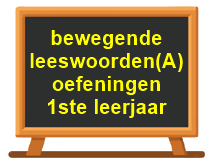
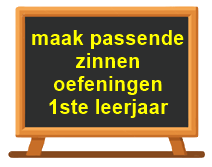
Add files via upload

diff --git a/data.js b/data.js
@@ -1,1 +1,1 @@
-{"project": [null,"Layout 1",[[0,true,false,false,false,false,false,false,false,false],[1,false,true,true,true,true,true,true,true,false],[2,false,true,true,true,true,true,true,true,true],[3,true,false,false,false,false,false,false,false,false]],[["t0",1,false,[],0,0,null,[["Default",5,false,1,0,false,117027091385668,[["images/menu1-sheet0.png",8295,0,0,212,167,1,0.5,0.5029940009117127,[],[],0]]]],[],false,false,579442526640171,[],null],["t1",3,false,[],0,0,null,null,[],false,false,686171647724182,[],null,[1]],["t2",0,false,[],0,0,null,null,[],false,false,949506675121733,[],null,[]],["t3",1,false,[],0,0,null,[["Default",5,false,1,0,false,158681305619359,[["images/menu2-sheet0.png",11591,0,0,212,167,1,0.5,0.5029940009117127,[],[],0]]]],[],false,false,311823332041861,[],null],["t4",1,false,[],0,0,null,[["Default",5,false,1,0,false,326044277892789,[["images/menu3-sheet0.png",10679,0,0,212,167,1,0.5,0.5029940009117127,[],[],0]]]],[],false,false,224473641531038,[],null],["t5",1,false,[],0,0,null,[["Default",5,false,1,0,false,254271839610822,[["images/menu4-sheet0.png",11050,0,0,212,167,1,0.5,0.5029940009117127,[],[],0]]]],[],false,false,529450595996291,[],null],["t6",2,false,[],0,0,["images/tiledbackground.png",2650580,0],null,[],false,false,831352423322622,[],null],["t7",1,false,[],0,0,null,[["Default",5,false,1,0,false,292864059835925,[["images/menu5-sheet0.png",9080,0,0,212,167,1,0.5,0.5029940009117127,[],[],0]]]],[],false,false,494960235019953,[],null],["t8",1,false,[],0,0,null,[["Default",5,false,1,0,false,488824489902244,[["images/menu6-sheet0.png",9359,0,0,212,167,1,0.5,0.5029940009117127,[],[],0]]]],[],false,false,202970627325348,[],null],["t9",1,false,[],0,0,null,[["Default",5,false,1,0,false,996687194782878,[["images/menu7-sheet0.png",8067,0,0,212,167,1,0.5,0.5029940009117127,[],[],0]]]],[],false,false,888605933007837,[],null],["t10",1,false,[],0,0,null,[["Default",5,false,1,0,false,445101901261574,[["images/menu8-sheet0.png",9982,0,0,212,167,1,0.5,0.5029940009117127,[],[],0]]]],[],false,false,578641591164545,[],null],["t11",1,false,[],0,0,null,[["Default",5,false,1,0,false,242457179592126,[["images/menu9-sheet0.png",7203,0,0,212,167,1,0.5,0.5029940009117127,[],[],0]]]],[],false,false,657654593037586,[],null],["t12",1,false,[],0,0,null,[["Default",5,false,1,0,false,486572896505710,[["images/menu10-sheet0.png",7167,0,0,212,167,1,0.5,0.5029940009117127,[],[],0]]]],[],false,false,411815708822918,[],null],["t13",1,false,[],0,0,null,[["Default",5,false,1,0,false,371353466755763,[["images/menu11-sheet0.png",7142,0,0,212,167,1,0.5,0.5029940009117127,[],[],0]]]],[],false,false,947512400676127,[],null],["t14",1,false,[],0,0,null,[["Default",5,false,1,0,false,156637765337536,[["images/menu12-sheet0.png",7083,0,0,212,167,1,0.5,0.5029940009117127,[],[],0]]]],[],false,false,328717317292460,[],null],["t15",1,false,[],0,0,null,[["Default",5,false,1,0,false,227316371230216,[["images/menu13-sheet0.png",7537,0,0,212,167,1,0.5,0.5029940009117127,[],[],0]]]],[],false,false,117685219120617,[],null],["t16",1,false,[],0,0,null,[["Default",5,false,1,0,false,681109082501796,[["images/menu14-sheet0.png",6758,0,0,212,167,1,0.5,0.5029940009117127,[],[],0]]]],[],false,false,919142958206970,[],null],["t17",1,false,[],0,0,null,[["Default",5,false,1,0,false,930098934348924,[["images/menu15-sheet0.png",6922,0,0,212,167,1,0.5,0.5029940009117127,[],[],0]]]],[],false,false,759915044119502,[],null],["t18",1,false,[],0,0,null,[["Default",5,false,1,0,false,473186904432816,[["images/menu16-sheet0.png",7223,0,0,212,167,1,0.5,0.5029940009117127,[],[],0]]]],[],false,false,394886160448831,[],null],["t19",1,false,[],0,0,null,[["Default",5,false,1,0,false,549311774949362,[["images/menu17-sheet0.png",7635,0,0,212,167,1,0.5,0.5029940009117127,[],[],0]]]],[],false,false,690375015728857,[],null],["t20",1,false,[],0,0,null,[["Default",5,false,1,0,false,143620845358118,[["images/menu18-sheet0.png",7642,0,0,212,167,1,0.5,0.5029940009117127,[],[],0]]]],[],false,false,696472966333321,[],null],["t21",1,false,[],0,0,null,[["Default",5,false,1,0,false,744016871251716,[["images/menu19-sheet0.png",7538,0,0,212,167,1,0.5,0.5029940009117127,[],[],0]]]],[],false,false,347767673530074,[],null],["t22",1,false,[],0,0,null,[["Default",5,false,1,0,false,897156022292051,[["images/verder-sheet0.png",9756,0,0,200,161,1,0.5,0.5031055808067322,[],[],0]]]],[],false,false,325809785978067,[],null],["t23",1,false,[],0,0,null,[["Default",5,false,1,0,false,372397577520883,[["images/terug-sheet0.png",9799,0,0,200,161,1,0.5,0.5031055808067322,[],[],0]]]],[],false,false,515729001966988,[],null]],[],[["Layout 1",1280,800,false,"Event sheet 1",990067307362436,[["Layer 0",0,662286171978515,true,[255,255,255],false,1,1,1,false,false,1,0,0,[[[0,0,0,1280,800,0,0,1,0,0,0,0,[]],6,6,[],[],[0,0]],[[149,100,0,212,167,0,0,1,0.5,0.5029940009117127,0,0,[]],0,0,[],[],[0,"Default",0,1]],[[390,100,0,212,167,0,0,1,0.5,0.5029940009117127,0,0,[]],3,3,[],[],[0,"Default",0,1]],[[631,100,0,212,167,0,0,1,0.5,0.5029940009117127,0,0,[]],4,4,[],[],[0,"Default",0,1]],[[872,100,0,212,167,0,0,1,0.5,0.5029940009117127,0,0,[]],5,5,[],[],[0,"Default",0,1]],[[1113,100,0,212,167,0,0,1,0.5,0.5029940009117127,0,0,[]],7,7,[],[],[0,"Default",0,1]],[[149,294,0,212,167,0,0,1,0.5,0.5029940009117127,0,0,[]],8,8,[],[],[0,"Default",0,1]],[[390,294,0,212,167,0,0,1,0.5,0.5029940009117127,0,0,[]],9,9,[],[],[0,"Default",0,1]],[[872,294,0,212,167,0,0,1,0.5,0.5029940009117127,0,0,[]],10,10,[],[],[0,"Default",0,1]],[[149,487,0,212,167,0,0,1,0.5,0.5029940009117127,0,0,[]],11,12,[],[],[0,"Default",0,1]],[[390,487,0,212,167,0,0,1,0.5,0.5029940009117127,0,0,[]],12,13,[],[],[0,"Default",0,1]],[[631,487,0,212,167,0,0,1,0.5,0.5029940009117127,0,0,[]],13,14,[],[],[0,"Default",0,1]],[[872,487,0,212,167,0,0,1,0.5,0.5029940009117127,0,0,[]],14,11,[],[],[0,"Default",0,1]],[[1113,294,0,212,167,0,0,1,0.5,0.5029940009117127,0,0,[]],15,15,[],[],[0,"Default",0,1]],[[149,681,0,212,167,0,0,1,0.5,0.5029940009117127,0,0,[]],16,16,[],[],[0,"Default",0,1]],[[390,681,0,212,167,0,0,1,0.5,0.5029940009117127,0,0,[]],17,17,[],[],[0,"Default",0,1]],[[631,294,0,212,167,0,0,1,0.5,0.5029940009117127,0,0,[]],18,18,[],[],[0,"Default",0,1]],[[631,681,0,212,167,0,0,1,0.5,0.5029940009117127,0,0,[]],19,19,[],[],[0,"Default",0,1]],[[872,681,0,212,167,0,0,1,0.5,0.5029940009117127,0,0,[]],20,20,[],[],[0,"Default",0,1]],[[1113,681,0,200,161,0,0,1,0.5,0.5031055808067322,0,0,[]],22,23,[],[],[0,"Default",0,1]]],[]]],[],[]],["Layout 2",1280,800,false,"Event sheet 2",507749669816769,[["Layer 0",0,619923274862284,true,[255,255,255],false,1,1,1,false,false,1,0,0,[[[0,0,0,1280,800,0,0,1,0,0,0,0,[]],6,21,[],[],[0,0]],[[149,100,0,212,167,0,0,1,0.5,0.5029940009117127,0,0,[]],21,22,[],[],[0,"Default",0,1]],[[132,690,0,200,161,0,0,1,0.5,0.5031055808067322,0,0,[]],23,24,[],[],[0,"Default",0,1]]],[]]],[],[]]],[["Event sheet 1",[[0,null,false,null,167509441882083,[[-1,4,null,1,false,false,false,454552222755084,false]],[]],[0,null,false,null,342244446933110,[[1,5,null,0,false,false,false,686663644573394,false,[[4,0]]]],[[2,6,null,972612510987542,false,[[1,[2,"https://danielbilliau.github.io/Leesoefeningen/rekenen/"]],[3,0]]]]],[0,null,false,null,935073610562392,[[1,5,null,0,false,false,false,622086696744572,false,[[4,3]]]],[[2,6,null,709354315763199,false,[[1,[2,"https://danielbilliau.github.io/Leesoefeningen/plusmin20/"]],[3,0]]]]],[0,null,false,null,244331650519705,[[1,5,null,0,false,false,false,288363866480110,false,[[4,4]]]],[[2,6,null,754322499400778,false,[[1,[2,"https://danielbilliau.github.io/Leesoefeningen/rekenen20spel/"]],[3,0]]]]],[0,null,false,null,143502245426000,[[1,5,null,0,false,false,false,666654694620947,false,[[4,5]]]],[[2,6,null,656707768678768,false,[[1,[2,"https://danielbilliau.github.io/Leesoefeningen/flitswoorden/"]],[3,0]]]]],[0,null,false,null,479101965037172,[[1,5,null,0,false,false,false,160250633109671,false,[[4,7]]]],[[2,6,null,423249135836785,false,[[1,[2,"https://danielbilliau.github.io/Leesoefeningen/lettergrepen/"]],[3,0]]]]],[0,null,false,null,665426080469938,[[1,5,null,0,false,false,false,861169912615278,false,[[4,8]]]],[[2,6,null,423544253391386,false,[[1,[2,"https://danielbilliau.github.io/Leesoefeningen/tekstavontuur/"]],[3,0]]]]],[0,null,false,null,263300598765697,[[1,5,null,0,false,false,false,975121950085399,false,[[4,9]]]],[[2,6,null,351296353063862,false,[[1,[2,"https://danielbilliau.github.io/Leesoefeningen/schrijfletters/"]],[3,0]]]]],[0,null,false,null,900526957603428,[[1,5,null,0,false,false,false,451686660597036,false,[[4,10]]]],[[2,6,null,105359604520401,false,[[1,[2,"https://danielbilliau.github.io/Leesoefeningen/voorleeswoorden/"]],[3,0]]]]],[0,null,false,null,281002720194183,[[1,5,null,0,false,false,false,114143636981826,false,[[4,11]]]],[[2,6,null,112025234954083,false,[[1,[2,"https://danielbilliau.github.io/Leesoefeningen/AVIdeel1/"]],[3,0]]]]],[0,null,false,null,403860152722309,[[1,5,null,0,false,false,false,608001597242000,false,[[4,12]]]],[[2,6,null,910808136024554,false,[[1,[2,"https://danielbilliau.github.io/Leesoefeningen/AVIdeel2/"]],[3,0]]]]],[0,null,false,null,451886661093855,[[1,5,null,0,false,false,false,160042793319702,false,[[4,13]]]],[[2,6,null,917185631751808,false,[[1,[2,"https://danielbilliau.github.io/Leesoefeningen/AVIdeel3/"]],[3,0]]]]],[0,null,false,null,561213516654265,[[1,5,null,0,false,false,false,314603240302309,false,[[4,14]]]],[[2,6,null,534154492939163,false,[[1,[2,"https://danielbilliau.github.io/Leesoefeningen/avilezenoud/menu.htm"]],[3,0]]]]],[0,null,false,null,864811355470751,[[1,5,null,0,false,false,false,313896679093197,false,[[4,15]]]],[[2,6,null,616323919016773,false,[[1,[2,"https://danielbilliau.github.io/Leesoefeningen/klikklak/"]],[3,0]]]]],[0,null,false,null,976104602685345,[[1,5,null,0,false,false,false,136605221763425,false,[[4,16]]]],[[2,6,null,692768758677528,false,[[1,[2,"https://danielbilliau.github.io/Leesoefeningen/tempozinnen/"]],[3,0]]]]],[0,null,false,null,709764904096712,[[1,5,null,0,false,false,false,141011157691494,false,[[4,17]]]],[[2,6,null,503405391458462,false,[[1,[2,"https://danielbilliau.github.io/Leesoefeningen/tempowoorden/"]],[3,0]]]]],[0,null,false,null,926229255417989,[[1,5,null,0,false,false,false,437695494343073,false,[[4,18]]]],[[2,6,null,756772399749727,false,[[1,[2,"https://danielbilliau.github.io/Leesoefeningen/schrijf2klank/"]],[3,0]]]]],[0,null,false,null,220231562933644,[[1,5,null,0,false,false,false,168238159106646,false,[[4,19]]]],[[2,6,null,914473831712017,false,[[1,[2,"https://danielbilliau.github.io/Leesoefeningen/flipflap1/"]],[3,0]]]]],[0,null,false,null,814373089081143,[[1,5,null,0,false,false,false,535355740749015,false,[[4,20]]]],[[2,6,null,693004723135494,false,[[1,[2,"https://danielbilliau.github.io/Leesoefeningen/flipflap2/"]],[3,0]]]]],[0,null,false,null,139763945410114,[[1,5,null,0,false,false,false,701251939492471,false,[[4,22]]]],[[-1,7,null,318742272672957,false,[[6,"Layout 2"]]]]]]],["Event sheet 2",[[0,null,false,null,127391896963498,[[1,5,null,0,false,false,false,842271717282626,false,[[4,21]]]],[[2,6,null,646559256700649,false,[[1,[2,"https://danielbilliau.github.io/Leesoefeningen/leeswoordenA/"]],[3,0]]]]],[0,null,false,null,846937296837424,[[1,5,null,0,false,false,false,288113944989210,false,[[4,23]]]],[[-1,7,null,892753254051340,false,[[6,"Layout 1"]]]]]]]],[],"media/",true,1280,800,4,true,true,false,"1.0.0.0",true,false,1,2,25,false,true,1,false,"menu",0,[]]}
+{"project": [null,"Layout 1",[[0,true,false,false,false,false,false,false,false,false],[1,false,true,true,true,true,true,true,true,false],[2,false,true,true,true,true,true,true,true,true],[3,true,false,false,false,false,false,false,false,false]],[["t0",1,false,[],0,0,null,[["Default",5,false,1,0,false,117027091385668,[["images/menu1-sheet0.png",8295,0,0,212,167,1,0.5,0.5029940009117127,[],[],0]]]],[],false,false,579442526640171,[],null],["t1",3,false,[],0,0,null,null,[],false,false,686171647724182,[],null,[1]],["t2",0,false,[],0,0,null,null,[],false,false,949506675121733,[],null,[]],["t3",1,false,[],0,0,null,[["Default",5,false,1,0,false,158681305619359,[["images/menu2-sheet0.png",11591,0,0,212,167,1,0.5,0.5029940009117127,[],[],0]]]],[],false,false,311823332041861,[],null],["t4",1,false,[],0,0,null,[["Default",5,false,1,0,false,326044277892789,[["images/menu3-sheet0.png",10679,0,0,212,167,1,0.5,0.5029940009117127,[],[],0]]]],[],false,false,224473641531038,[],null],["t5",1,false,[],0,0,null,[["Default",5,false,1,0,false,254271839610822,[["images/menu4-sheet0.png",11050,0,0,212,167,1,0.5,0.5029940009117127,[],[],0]]]],[],false,false,529450595996291,[],null],["t6",2,false,[],0,0,["images/tiledbackground.png",2650580,0],null,[],false,false,831352423322622,[],null],["t7",1,false,[],0,0,null,[["Default",5,false,1,0,false,292864059835925,[["images/menu5-sheet0.png",9080,0,0,212,167,1,0.5,0.5029940009117127,[],[],0]]]],[],false,false,494960235019953,[],null],["t8",1,false,[],0,0,null,[["Default",5,false,1,0,false,488824489902244,[["images/menu6-sheet0.png",9359,0,0,212,167,1,0.5,0.5029940009117127,[],[],0]]]],[],false,false,202970627325348,[],null],["t9",1,false,[],0,0,null,[["Default",5,false,1,0,false,996687194782878,[["images/menu7-sheet0.png",8067,0,0,212,167,1,0.5,0.5029940009117127,[],[],0]]]],[],false,false,888605933007837,[],null],["t10",1,false,[],0,0,null,[["Default",5,false,1,0,false,445101901261574,[["images/menu8-sheet0.png",9982,0,0,212,167,1,0.5,0.5029940009117127,[],[],0]]]],[],false,false,578641591164545,[],null],["t11",1,false,[],0,0,null,[["Default",5,false,1,0,false,242457179592126,[["images/menu9-sheet0.png",7203,0,0,212,167,1,0.5,0.5029940009117127,[],[],0]]]],[],false,false,657654593037586,[],null],["t12",1,false,[],0,0,null,[["Default",5,false,1,0,false,486572896505710,[["images/menu10-sheet0.png",7167,0,0,212,167,1,0.5,0.5029940009117127,[],[],0]]]],[],false,false,411815708822918,[],null],["t13",1,false,[],0,0,null,[["Default",5,false,1,0,false,371353466755763,[["images/menu11-sheet0.png",7142,0,0,212,167,1,0.5,0.5029940009117127,[],[],0]]]],[],false,false,947512400676127,[],null],["t14",1,false,[],0,0,null,[["Default",5,false,1,0,false,156637765337536,[["images/menu12-sheet0.png",7083,0,0,212,167,1,0.5,0.5029940009117127,[],[],0]]]],[],false,false,328717317292460,[],null],["t15",1,false,[],0,0,null,[["Default",5,false,1,0,false,227316371230216,[["images/menu13-sheet0.png",7537,0,0,212,167,1,0.5,0.5029940009117127,[],[],0]]]],[],false,false,117685219120617,[],null],["t16",1,false,[],0,0,null,[["Default",5,false,1,0,false,681109082501796,[["images/menu14-sheet0.png",6758,0,0,212,167,1,0.5,0.5029940009117127,[],[],0]]]],[],false,false,919142958206970,[],null],["t17",1,false,[],0,0,null,[["Default",5,false,1,0,false,930098934348924,[["images/menu15-sheet0.png",6922,0,0,212,167,1,0.5,0.5029940009117127,[],[],0]]]],[],false,false,759915044119502,[],null],["t18",1,false,[],0,0,null,[["Default",5,false,1,0,false,473186904432816,[["images/menu16-sheet0.png",7223,0,0,212,167,1,0.5,0.5029940009117127,[],[],0]]]],[],false,false,394886160448831,[],null],["t19",1,false,[],0,0,null,[["Default",5,false,1,0,false,549311774949362,[["images/menu17-sheet0.png",7635,0,0,212,167,1,0.5,0.5029940009117127,[],[],0]]]],[],false,false,690375015728857,[],null],["t20",1,false,[],0,0,null,[["Default",5,false,1,0,false,143620845358118,[["images/menu18-sheet0.png",7642,0,0,212,167,1,0.5,0.5029940009117127,[],[],0]]]],[],false,false,696472966333321,[],null],["t21",1,false,[],0,0,null,[["Default",5,false,1,0,false,744016871251716,[["images/menu19-sheet0.png",7017,0,0,212,167,1,0.5,0.5029940009117127,[],[],0]]]],[],false,false,347767673530074,[],null],["t22",1,false,[],0,0,null,[["Default",5,false,1,0,false,897156022292051,[["images/verder-sheet0.png",9756,0,0,200,161,1,0.5,0.5031055808067322,[],[],0]]]],[],false,false,325809785978067,[],null],["t23",1,false,[],0,0,null,[["Default",5,false,1,0,false,372397577520883,[["images/terug-sheet0.png",9799,0,0,200,161,1,0.5,0.5031055808067322,[],[],0]]]],[],false,false,515729001966988,[],null]],[],[["Layout 1",1280,800,false,"Event sheet 1",990067307362436,[["Layer 0",0,662286171978515,true,[255,255,255],false,1,1,1,false,false,1,0,0,[[[0,0,0,1280,800,0,0,1,0,0,0,0,[]],6,6,[],[],[0,0]],[[149,100,0,212,167,0,0,1,0.5,0.5029940009117127,0,0,[]],0,0,[],[],[0,"Default",0,1]],[[390,100,0,212,167,0,0,1,0.5,0.5029940009117127,0,0,[]],3,3,[],[],[0,"Default",0,1]],[[631,100,0,212,167,0,0,1,0.5,0.5029940009117127,0,0,[]],4,4,[],[],[0,"Default",0,1]],[[872,100,0,212,167,0,0,1,0.5,0.5029940009117127,0,0,[]],5,5,[],[],[0,"Default",0,1]],[[1113,100,0,212,167,0,0,1,0.5,0.5029940009117127,0,0,[]],7,7,[],[],[0,"Default",0,1]],[[149,294,0,212,167,0,0,1,0.5,0.5029940009117127,0,0,[]],8,8,[],[],[0,"Default",0,1]],[[390,294,0,212,167,0,0,1,0.5,0.5029940009117127,0,0,[]],9,9,[],[],[0,"Default",0,1]],[[872,294,0,212,167,0,0,1,0.5,0.5029940009117127,0,0,[]],10,10,[],[],[0,"Default",0,1]],[[149,487,0,212,167,0,0,1,0.5,0.5029940009117127,0,0,[]],11,12,[],[],[0,"Default",0,1]],[[390,487,0,212,167,0,0,1,0.5,0.5029940009117127,0,0,[]],12,13,[],[],[0,"Default",0,1]],[[631,487,0,212,167,0,0,1,0.5,0.5029940009117127,0,0,[]],13,14,[],[],[0,"Default",0,1]],[[872,487,0,212,167,0,0,1,0.5,0.5029940009117127,0,0,[]],14,11,[],[],[0,"Default",0,1]],[[1113,294,0,212,167,0,0,1,0.5,0.5029940009117127,0,0,[]],15,15,[],[],[0,"Default",0,1]],[[149,681,0,212,167,0,0,1,0.5,0.5029940009117127,0,0,[]],16,16,[],[],[0,"Default",0,1]],[[390,681,0,212,167,0,0,1,0.5,0.5029940009117127,0,0,[]],17,17,[],[],[0,"Default",0,1]],[[631,294,0,212,167,0,0,1,0.5,0.5029940009117127,0,0,[]],18,18,[],[],[0,"Default",0,1]],[[631,681,0,212,167,0,0,1,0.5,0.5029940009117127,0,0,[]],19,19,[],[],[0,"Default",0,1]],[[872,681,0,212,167,0,0,1,0.5,0.5029940009117127,0,0,[]],20,20,[],[],[0,"Default",0,1]],[[1117,908,0,200,161,0,0,1,0.5,0.5031055808067322,0,0,[]],22,23,[],[],[0,"Default",0,1]],[[1113,487,0,212,167,0,0,1,0.5,0.5029940009117127,0,0,[]],21,22,[],[],[0,"Default",0,1]]],[]]],[],[]],["Layout 2",1280,800,false,"Event sheet 2",507749669816769,[["Layer 0",0,619923274862284,true,[255,255,255],false,1,1,1,false,false,1,0,0,[[[0,0,0,1280,800,0,0,1,0,0,0,0,[]],6,21,[],[],[0,0]],[[132,690,0,200,161,0,0,1,0.5,0.5031055808067322,0,0,[]],23,24,[],[],[0,"Default",0,1]]],[]]],[],[]]],[["Event sheet 1",[[0,null,false,null,167509441882083,[[-1,4,null,1,false,false,false,454552222755084,false]],[]],[0,null,false,null,342244446933110,[[1,5,null,0,false,false,false,686663644573394,false,[[4,0]]]],[[2,6,null,972612510987542,false,[[1,[2,"https://danielbilliau.github.io/Leesoefeningen/rekenen/"]],[3,0]]]]],[0,null,false,null,935073610562392,[[1,5,null,0,false,false,false,622086696744572,false,[[4,3]]]],[[2,6,null,709354315763199,false,[[1,[2,"https://danielbilliau.github.io/Leesoefeningen/plusmin20/"]],[3,0]]]]],[0,null,false,null,244331650519705,[[1,5,null,0,false,false,false,288363866480110,false,[[4,4]]]],[[2,6,null,754322499400778,false,[[1,[2,"https://danielbilliau.github.io/Leesoefeningen/rekenen20spel/"]],[3,0]]]]],[0,null,false,null,143502245426000,[[1,5,null,0,false,false,false,666654694620947,false,[[4,5]]]],[[2,6,null,656707768678768,false,[[1,[2,"https://danielbilliau.github.io/Leesoefeningen/flitswoorden/"]],[3,0]]]]],[0,null,false,null,479101965037172,[[1,5,null,0,false,false,false,160250633109671,false,[[4,7]]]],[[2,6,null,423249135836785,false,[[1,[2,"https://danielbilliau.github.io/Leesoefeningen/lettergrepen/"]],[3,0]]]]],[0,null,false,null,665426080469938,[[1,5,null,0,false,false,false,861169912615278,false,[[4,8]]]],[[2,6,null,423544253391386,false,[[1,[2,"https://danielbilliau.github.io/Leesoefeningen/tekstavontuur/"]],[3,0]]]]],[0,null,false,null,263300598765697,[[1,5,null,0,false,false,false,975121950085399,false,[[4,9]]]],[[2,6,null,351296353063862,false,[[1,[2,"https://danielbilliau.github.io/Leesoefeningen/schrijfletters/"]],[3,0]]]]],[0,null,false,null,900526957603428,[[1,5,null,0,false,false,false,451686660597036,false,[[4,10]]]],[[2,6,null,105359604520401,false,[[1,[2,"https://danielbilliau.github.io/Leesoefeningen/voorleeswoorden/"]],[3,0]]]]],[0,null,false,null,281002720194183,[[1,5,null,0,false,false,false,114143636981826,false,[[4,11]]]],[[2,6,null,112025234954083,false,[[1,[2,"https://danielbilliau.github.io/Leesoefeningen/AVIdeel1/"]],[3,0]]]]],[0,null,false,null,403860152722309,[[1,5,null,0,false,false,false,608001597242000,false,[[4,12]]]],[[2,6,null,910808136024554,false,[[1,[2,"https://danielbilliau.github.io/Leesoefeningen/AVIdeel2/"]],[3,0]]]]],[0,null,false,null,451886661093855,[[1,5,null,0,false,false,false,160042793319702,false,[[4,13]]]],[[2,6,null,917185631751808,false,[[1,[2,"https://danielbilliau.github.io/Leesoefeningen/AVIdeel3/"]],[3,0]]]]],[0,null,false,null,561213516654265,[[1,5,null,0,false,false,false,314603240302309,false,[[4,14]]]],[[2,6,null,534154492939163,false,[[1,[2,"https://danielbilliau.github.io/Leesoefeningen/avilezenoud/menu.htm"]],[3,0]]]]],[0,null,false,null,864811355470751,[[1,5,null,0,false,false,false,313896679093197,false,[[4,15]]]],[[2,6,null,616323919016773,false,[[1,[2,"https://danielbilliau.github.io/Leesoefeningen/klikklak/"]],[3,0]]]]],[0,null,false,null,976104602685345,[[1,5,null,0,false,false,false,136605221763425,false,[[4,16]]]],[[2,6,null,692768758677528,false,[[1,[2,"https://danielbilliau.github.io/Leesoefeningen/tempozinnen/"]],[3,0]]]]],[0,null,false,null,709764904096712,[[1,5,null,0,false,false,false,141011157691494,false,[[4,17]]]],[[2,6,null,503405391458462,false,[[1,[2,"https://danielbilliau.github.io/Leesoefeningen/tempowoorden/"]],[3,0]]]]],[0,null,false,null,926229255417989,[[1,5,null,0,false,false,false,437695494343073,false,[[4,18]]]],[[2,6,null,756772399749727,false,[[1,[2,"https://danielbilliau.github.io/Leesoefeningen/schrijf2klank/"]],[3,0]]]]],[0,null,false,null,220231562933644,[[1,5,null,0,false,false,false,168238159106646,false,[[4,19]]]],[[2,6,null,914473831712017,false,[[1,[2,"https://danielbilliau.github.io/Leesoefeningen/flipflap1/"]],[3,0]]]]],[0,null,false,null,814373089081143,[[1,5,null,0,false,false,false,535355740749015,false,[[4,20]]]],[[2,6,null,693004723135494,false,[[1,[2,"https://danielbilliau.github.io/Leesoefeningen/flipflap2/"]],[3,0]]]]],[0,null,false,null,239544150947099,[[1,5,null,0,false,false,false,265290413945076,false,[[4,21]]]],[[2,6,null,630211354995486,false,[[1,[2,"https://danielbilliau.github.io/Leesoefeningen/begrijpzinnen/"]],[3,0]]]]],[0,null,false,null,139763945410114,[[1,5,null,0,false,false,false,701251939492471,false,[[4,22]]]],[[-1,7,null,318742272672957,false,[[6,"Layout 2"]]]]]]],["Event sheet 2",[[0,null,false,null,846937296837424,[[1,5,null,0,false,false,false,288113944989210,false,[[4,23]]]],[[-1,7,null,892753254051340,false,[[6,"Layout 1"]]]]]]]],[],"media/",true,1280,800,4,true,true,false,"1.0.0.0",true,false,1,2,25,false,true,1,false,"menu",0,[]]}

diff --git a/offline.js b/offline.js
@@ -1,5 +1,5 @@
 {
-	"version": 1783623530,
+	"version": 1783688995,
 	"fileList": [
 		"data.js",
 		"c2runtime.js",